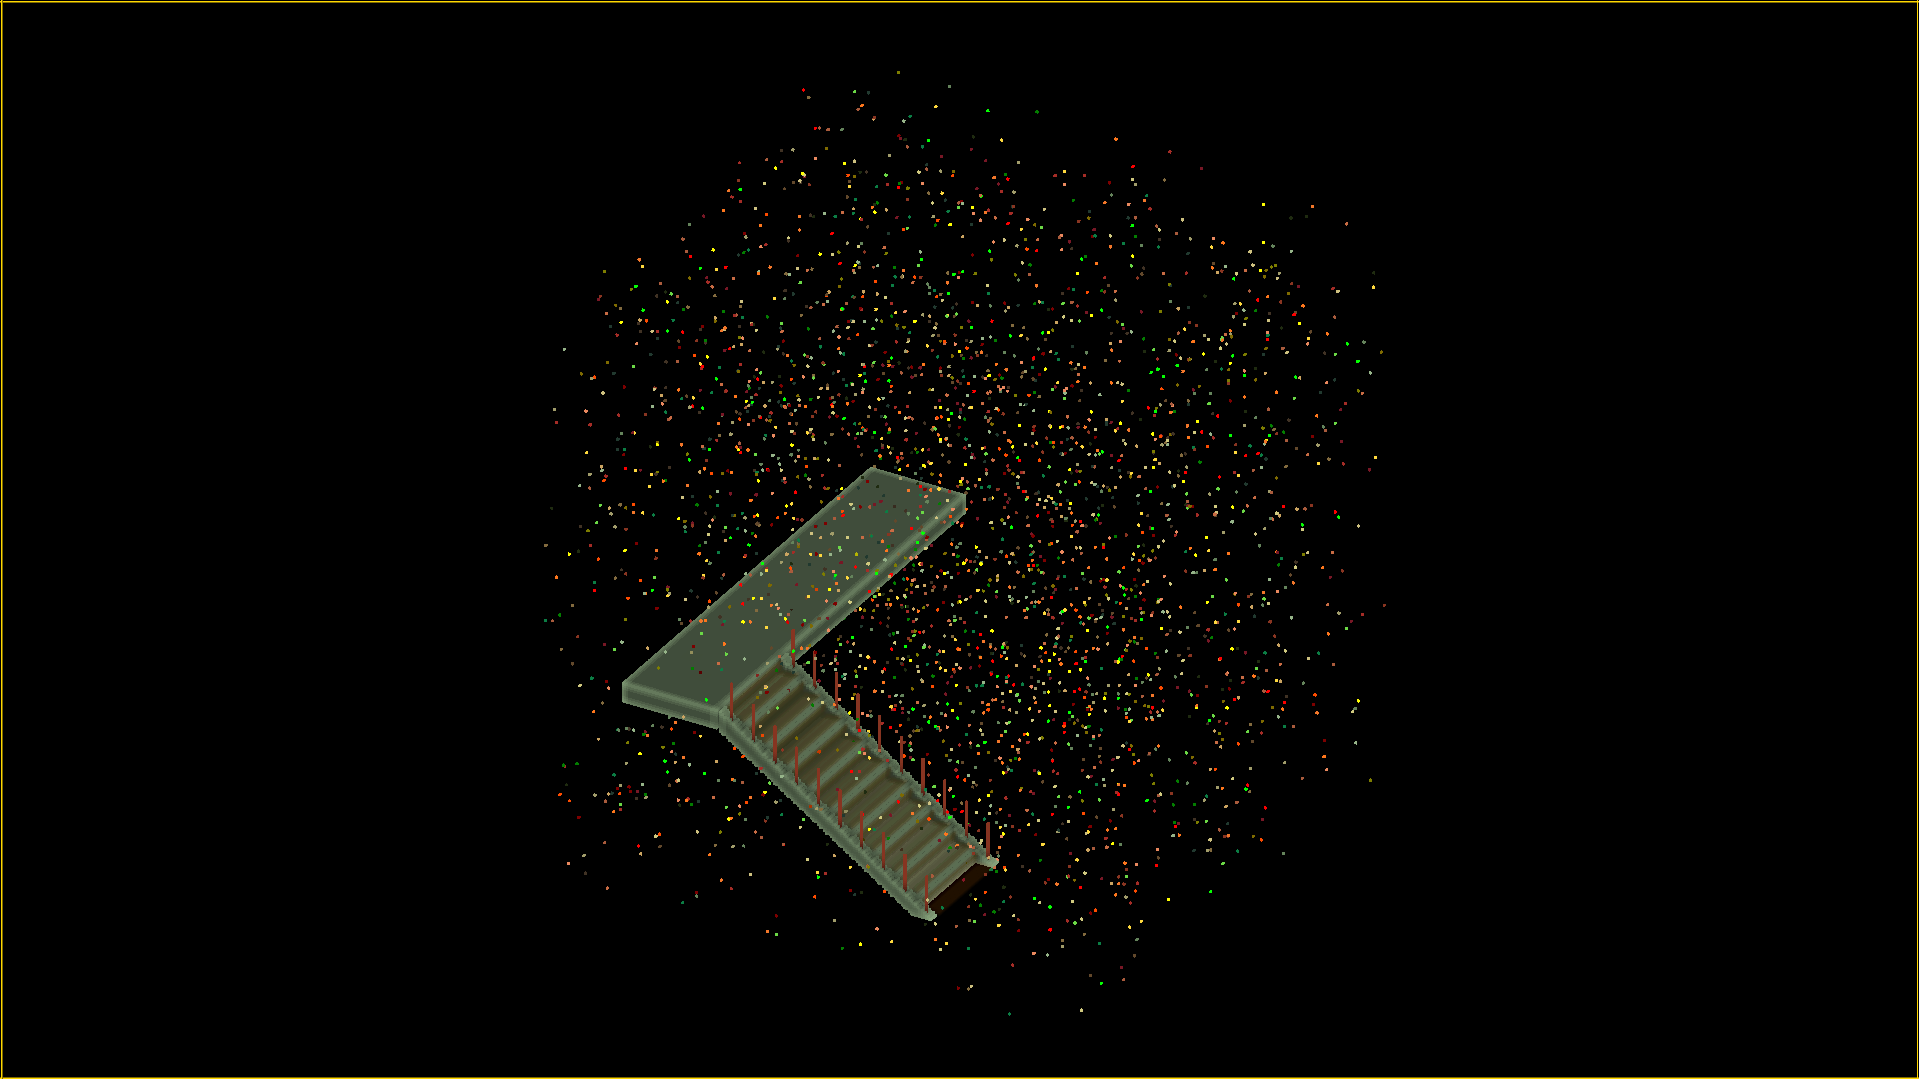
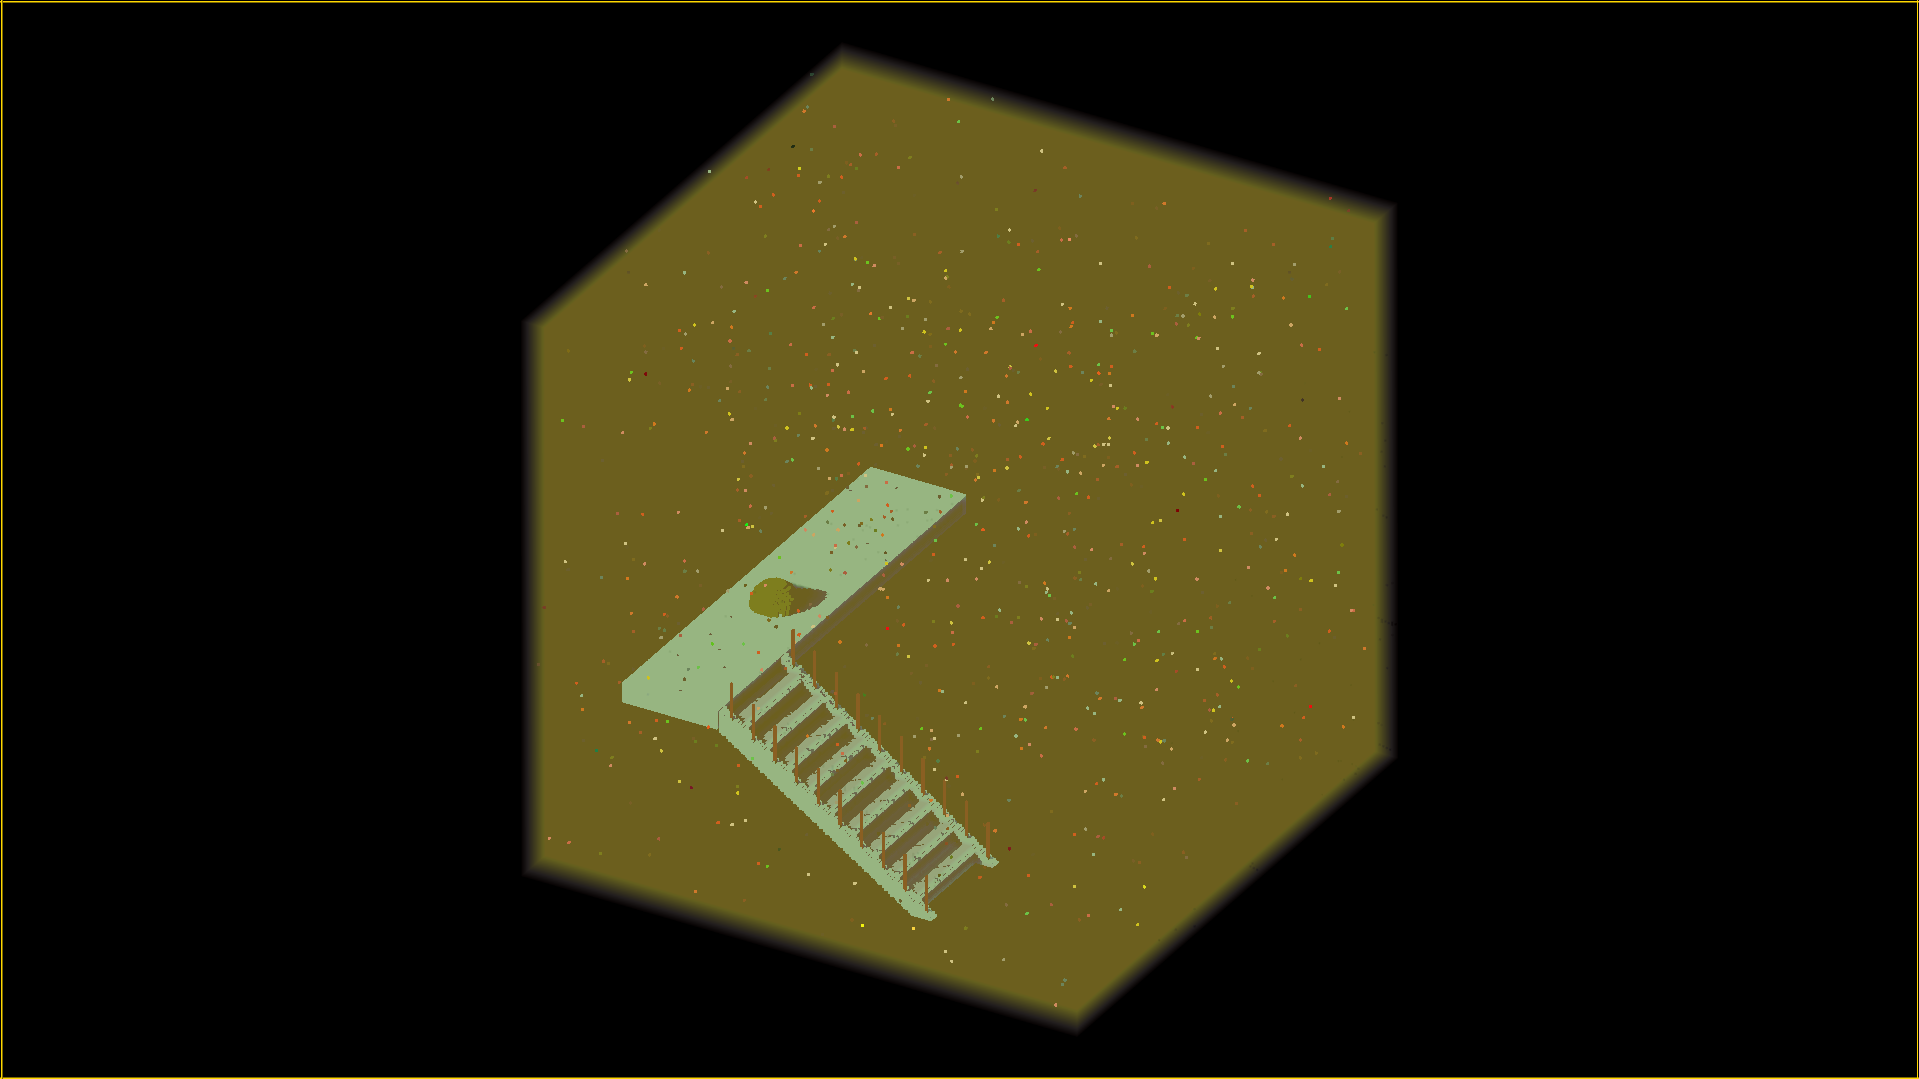
big doin's - got directional light working, also made the switch to double precision instead of unsigned char in the image class, and also added some stuff to the readme

diff --git a/includes/voraldo/v.cc b/includes/voraldo/v.cc
@@ -19,7 +19,7 @@ float clamp(float value, float low, float high)
   }
 }
 
-Vox get_vox(unsigned char state, float alpha, float lighting_intensity, bool mask)
+Vox get_vox(unsigned char state, double alpha, float lighting_intensity, bool mask)
 {
   Vox temp;
 
@@ -43,7 +43,7 @@ Voraldo_Lighting::~Voraldo_Lighting()
 
 }
 
-void Voraldo_Lighting::apply_directional_lighting(float initial_intensity, double x_rot, double y_rot, double z_rot, float divergence)
+void Voraldo_Lighting::apply_directional_lighting(float initial_intensity, double x_rot, double y_rot, double z_rot, double scale, bool divergence)
 {
   /*
 
@@ -51,8 +51,10 @@ void Voraldo_Lighting::apply_directional_lighting(float initial_intensity, doubl
     "divergence" here maps to perspective in the display function
 
   */
-  int image_x_dimension = 1919;//for the time being, call it 1080p
- 	int image_y_dimension = 1079;
+
+  cout << "start";
+  int image_x_dimension = 3000;
+ 	int image_y_dimension = 3000;
 
   int block_xdim = parent->x_dim;                 int block_ydim = parent->y_dim;                 int block_zdim = parent->z_dim;
  	int block_xdim_squared = block_xdim*block_xdim; int block_ydim_squared = block_ydim*block_ydim;	int block_zdim_squared = block_zdim*block_zdim;
@@ -105,7 +107,7 @@ void Voraldo_Lighting::apply_directional_lighting(float initial_intensity, doubl
  	vec block_max = vec(block_xdim,block_ydim,block_zdim);
 
   bool line_box_intersection;
-  Vox temp;
+  Vox temp1,temp2;
 
   double t0 = 0;
   double t1 = 9999;
@@ -117,47 +119,58 @@ void Voraldo_Lighting::apply_directional_lighting(float initial_intensity, doubl
   for(double x = -(image_x_dimension/2-5); x <= (image_x_dimension/2-5); x++)
     for(double y = -(image_y_dimension/2-5); y <= (image_y_dimension/2-5); y++)
     {//init (reset)
+
       line_box_intersection = false;   //reset flag values for the new pixel
 
       image_current_x = image_center_x + x; image_current_y = image_center_y + y; //x and y values for the new pixel
 
-      if(perspective == true) //this gets added inside the loop - note that the linetest will have to consider the perspective corrected ray
+      if(divergence == true) //this gets added inside the loop - note that the linetest will have to consider the perspective corrected ray
       {//this isn't working very well
         vector_increment = 0.5*normalize(-1.0*(cam_position-d_center));
         vector_increment = vector_increment + x*0.001*cam_right - y*0.001*cam_up;
       }
+
       //orthogonal display will have vector_increment equal for all pixels i.e. no divergence
       //figure out if the parametric line established by parameter z and
       //	L = vector_starting_point + z*vector_increment
       //intersects with the box established by (0,0,0) (x,y,z)
       //i.e. block_min and block_max
+      vector_starting_point = cam_position + x*cam_up + y*cam_right;
+
 
       //The goal here is to know whether or not there is data to sample behind any given pixel - this offers a significant speedup
       line_box_intersection = parent->intersect_ray_bbox(block_min,block_max,vector_starting_point,vector_increment,tmin,tmax,t0,t1);
 
-      if(line_box_intersection)
-      {//the ray hits the box, we will need to step through the box
+     if(line_box_intersection)
+     {//the ray hits the box, we will need to step through the box
         alpha_sum = 1.0;
         for(double z = tmin; z <= tmax; z+=0.5) //go from close intersection point (tmin) to far intersection point (tmax)
         {
           vector_test_point = linalg::floor(vector_starting_point + z*vector_increment);  //get the test point
-          temp = parent->get_data_by_vector_index(vector_test_point);                     //get the data at the test point
-          if(temp.state != 0)
+          temp1 = parent->get_data_by_vector_index(vector_test_point);                    //get the data at the test point
+          //cout << "test";
+          if(temp1.state != 0)
           {
             //set lighting value of the cell, based upon the current lighting intensity, write it back to the array
             //the current lighting intensity is scaled by the input argument initial_intensity, and multiplied by alpha_sum
+            //cout<<"nonzero state - ";
 
-                /*construct the new Vox here*/
+            //temp2 = get_vox(temp1.state,temp1.alpha,clamp(temp1.lighting_intensity+(initial_intensity*(1-alpha_sum)),0,1),temp1.mask);
+            temp2 = get_vox(temp1.state,temp1.alpha,clamp(temp1.lighting_intensity+0.5,0,1),temp1.mask);
+            parent->set_data_by_vector_index(vector_test_point,temp2,false,false,true);
 
             //certain amount of light gets 'absorbed' by the cell, temp - subtract the alpha value from the alpha_sum
-            alpha_sum -= temp.alpha;
+            //alpha_sum -= temp1.alpha;
 
             //if the lighting intensity is now less than zero, break out of the for loop - there's no more light left
-            if(alpha_sum <= 0.0)
+            if(temp1.alpha == 1.0)
+            {
+              //cout << "alpha_sum < 0, break" << endl;
               break;
+            }
           }
         }//end for (z)
-      }
+      }//end if
    }//end for (x and y)
 }
 
@@ -179,7 +192,7 @@ void Voraldo_Lighting::apply_ambient_occlusion()
        index = vec(i,j,k);
 
 
-       //this is crude - consider other methods?
+       //this is crude, slow - consider other methods?
        for (int x = -3; x <= 3; x++)
        {
          for (int y = -3; y <= 3; y++)
@@ -220,7 +233,7 @@ void Voraldo_IO::display(std::string filename, double x_rot, double y_rot, doubl
  	int image_x_dimension = 1919;
  	int image_y_dimension = 1079;
 
- 	CImg<unsigned char> img(image_x_dimension,image_y_dimension,1,3,0);
+ 	CImg<double> img(image_x_dimension,image_y_dimension,1,3,0);
 
  	const unsigned char	gold[3] = {255,215,0};
  	const unsigned char dark_gold[3] = {127,107,0};
@@ -472,7 +485,7 @@ void Voraldo_Draw::draw_noise(bool draw, float alpha, float lighting_intensity, 
 {
   for(int i = 0; i < parent->num_cells; i++)
   {
-     if(std::rand()%696 == 69 && std::rand()%696 < 100)
+     if(std::rand()%696 == 69 && std::rand()%696 < 30)
      {
        if(!parent->data[i].mask)
        {
@@ -654,7 +667,8 @@ void Voraldo_Draw::draw_cylinder(vec bvec, vec tvec, double radius, Vox set, boo
 					//sequential tests evaluate positively, we know we are within the extents of the cylinder.
 
 					point_to_line_distance = linalg::length(cross(tvec-bvec,bvec-vec(i,j,k)))/linalg::length(tvec-bvec);
-					if(point_to_line_distance <= radius){
+					if(point_to_line_distance <= radius)
+          {
 						draw_point(index,set,draw,mask);
 					}
 				}

diff --git a/main.cc b/main.cc
@@ -28,8 +28,12 @@ Voraldo *main_block;
 int main()
 {
 
+  bool animate = false;
+
   main_block = new Voraldo();
   main_block->draw->init_block(dimensions);
+
+  vec center = vec(floor(init_x/2),floor(init_y/2),floor(init_z/2));
 
   /*
 
@@ -67,6 +71,7 @@ int main()
 
   */
 
+
    vec ap = vec(  30,  85, 230);
    vec bp = vec(  30,  75, 230);
    vec cp = vec(  75,  85, 230);
@@ -85,11 +90,23 @@ int main()
    vec gr = vec( 175,  15, 175);
    vec hr = vec( 165,  15, 175);
 
+   vec ball_position = ((ap + ep + cp + gp) / 4.0) + vec(0,15,0);
+   main_block->draw->draw_sphere(ball_position,10,get_vox(14,1.0,0.0,false),true,false);
+
+
    vec as,bs,cs,ds,es,fs,gs,hs;
    vec ib,kb;
 
    vec v1 = vec(2,2,0);
    vec v2 = vec(0,20,0);
+
+   main_block->draw->draw_noise();
+
+   main_block->draw->mask_all_nonzero();
+
+   main_block->draw->draw_sphere(center,1000,get_vox(17,0.0008,0.0,false),true,false);
+
+
 
    main_block->draw->draw_quadrilateral_hexahedron(ap,bp,cp,dp,ep,fp,gp,hp,get_vox(27,1.0,1.0,false),true,false);
    main_block->draw->draw_quadrilateral_hexahedron(ar,br,cr,dr,er,fr,gr,hr,get_vox(27,1.0,1.0,false),true,false);
@@ -114,22 +131,52 @@ int main()
      main_block->draw->draw_quadrilateral_hexahedron(as+v1,bs+v1,cs+v1,ds+v1,es+v1,fs+v1,gs+v1,hs+v1,get_vox(0,0.01,1.0,false),true,false);
 
      main_block->draw->draw_line_segment(ib,ib+v2,get_vox(4,1.0,1.0,false),true,false);
+     main_block->draw->draw_sphere(ib+v2,3,get_vox(46,1.0,0.0,false),true,false);
+     main_block->draw->draw_sphere(ib+vec(0,5,0),2,get_vox(26,1.0,0.0,false),true,false);
+
+
+
      main_block->draw->draw_line_segment(kb,kb+v2,get_vox(4,1.0,1.0,false),true,false);
+     main_block->draw->draw_sphere(kb+v2,3,get_vox(46,1.0,0.0,false),true,false);
+     main_block->draw->draw_sphere(kb+vec(0,5,0),2,get_vox(26,1.0,0.0,false),true,false);
+
 
    }
 
 
 
-  main_block->draw->draw_noise();
-
-  main_block->lighting->apply_ambient_occlusion();
 
 
-  for(int i = 0; i <= 2*314; i += 1){
-      //main_block->io->display("new_output.png", 3.14, 3.14/3.0, 3.14/3.0, 0.4, false);
-      std::cout << i << std::endl;
-      main_block->io->display("animation/new_output"+ std::to_string(i) +".png",  3.14, 0.01*i*3.14/3.0, 3.14/3.0, 0.4, false);
-  }
+
+
+
+   main_block->lighting->apply_ambient_occlusion();
+   main_block->lighting->apply_directional_lighting(5.0, 3.14, 0.25*3.14, 3.14/3, 0.15, true);
+
+
+   if(animate)
+   {
+     for(int i = 0; i <= 2*314; i += 1){
+        std::cout << i << std::endl;
+
+        if(i < 10)
+        {
+          main_block->io->display("animation/new_output00"+ std::to_string(i) +".png",  3.14, 0.01*i*3.14/3.0, 3.14/3.0, 0.4, false);
+        }
+        else if(i < 100)
+        {
+          main_block->io->display("animation/new_output0"+ std::to_string(i) +".png",  3.14, 0.01*i*3.14/3.0, 3.14/3.0, 0.4, false);
+        }
+        else
+        {
+          main_block->io->display("animation/new_output"+ std::to_string(i) +".png",  3.14, 0.01*i*3.14/3.0, 3.14/3.0, 0.4, false);
+        }
+     }
+   }
+   else
+   {
+     main_block->io->display("new_output1.png", 3.14, 3.14/3.0 + 3.14, 3.14/3.0, 0.4, false);
+   }
 
   return 0;
 }

diff --git a/includes/voraldo/v.h b/includes/voraldo/v.h
@@ -47,7 +47,8 @@ struct RGB{
 
 struct Vox{
 	unsigned char state;
-	float alpha,lighting_intensity;
+	double alpha;
+	float lighting_intensity;
 	bool mask;
 
 	//unsigned char lighting_intensity;
@@ -57,7 +58,7 @@ struct Vox{
 	//data for zero valued cells.
 };
 
-Vox get_vox(unsigned char state, float alpha, float lighting_intensity, bool mask);
+Vox get_vox(unsigned char state, double alpha, float lighting_intensity, bool mask);
 
 class Voraldo_Lighting{
 public:
@@ -66,7 +67,7 @@ public:
 	Voraldo_Lighting(Voraldo *p);
 	~Voraldo_Lighting();
 
-	void apply_directional_lighting(float initial_intensity, double x_rot, double y_rot, double z_rot, float divergence);
+	void apply_directional_lighting(float initial_intensity, double x_rot, double y_rot, double z_rot, double scale, bool divergence);
 	void apply_ambient_occlusion();
 
 };
@@ -143,6 +144,7 @@ public:
 //	these functions can be used to mask without drawing if desired
 
 	void draw_noise(bool draw=true, float alpha=1.0, float lighting_intensity=1.0, bool mask=false);
+
 	//replaces the noisefill argument for the init_block
 
 	void draw_point(vec point, Vox set, bool draw=true, bool mask=false);

diff --git a/readme.md b/readme.md
@@ -14,4 +14,13 @@ animation https://youtu.be/EKtUuCGlVo0
 ![screenshot](https://imgur.com/Jtmlqvs.png)
 
 
-#####implement simple directional lighting (based on the algorithm of the display function)
+#####implement simple directional lighting (based on the algorithm of the display function) ***[THAT'S DONE]***
+
+![screenshot](https://imgur.com/EqxLsjN)
+
+
+What next?
+
+Mitigate blockiness of voxels, in terms of artifacts produced in shadows, etc - figure out a spherical representation?
+
+Trees based on L-systems.
